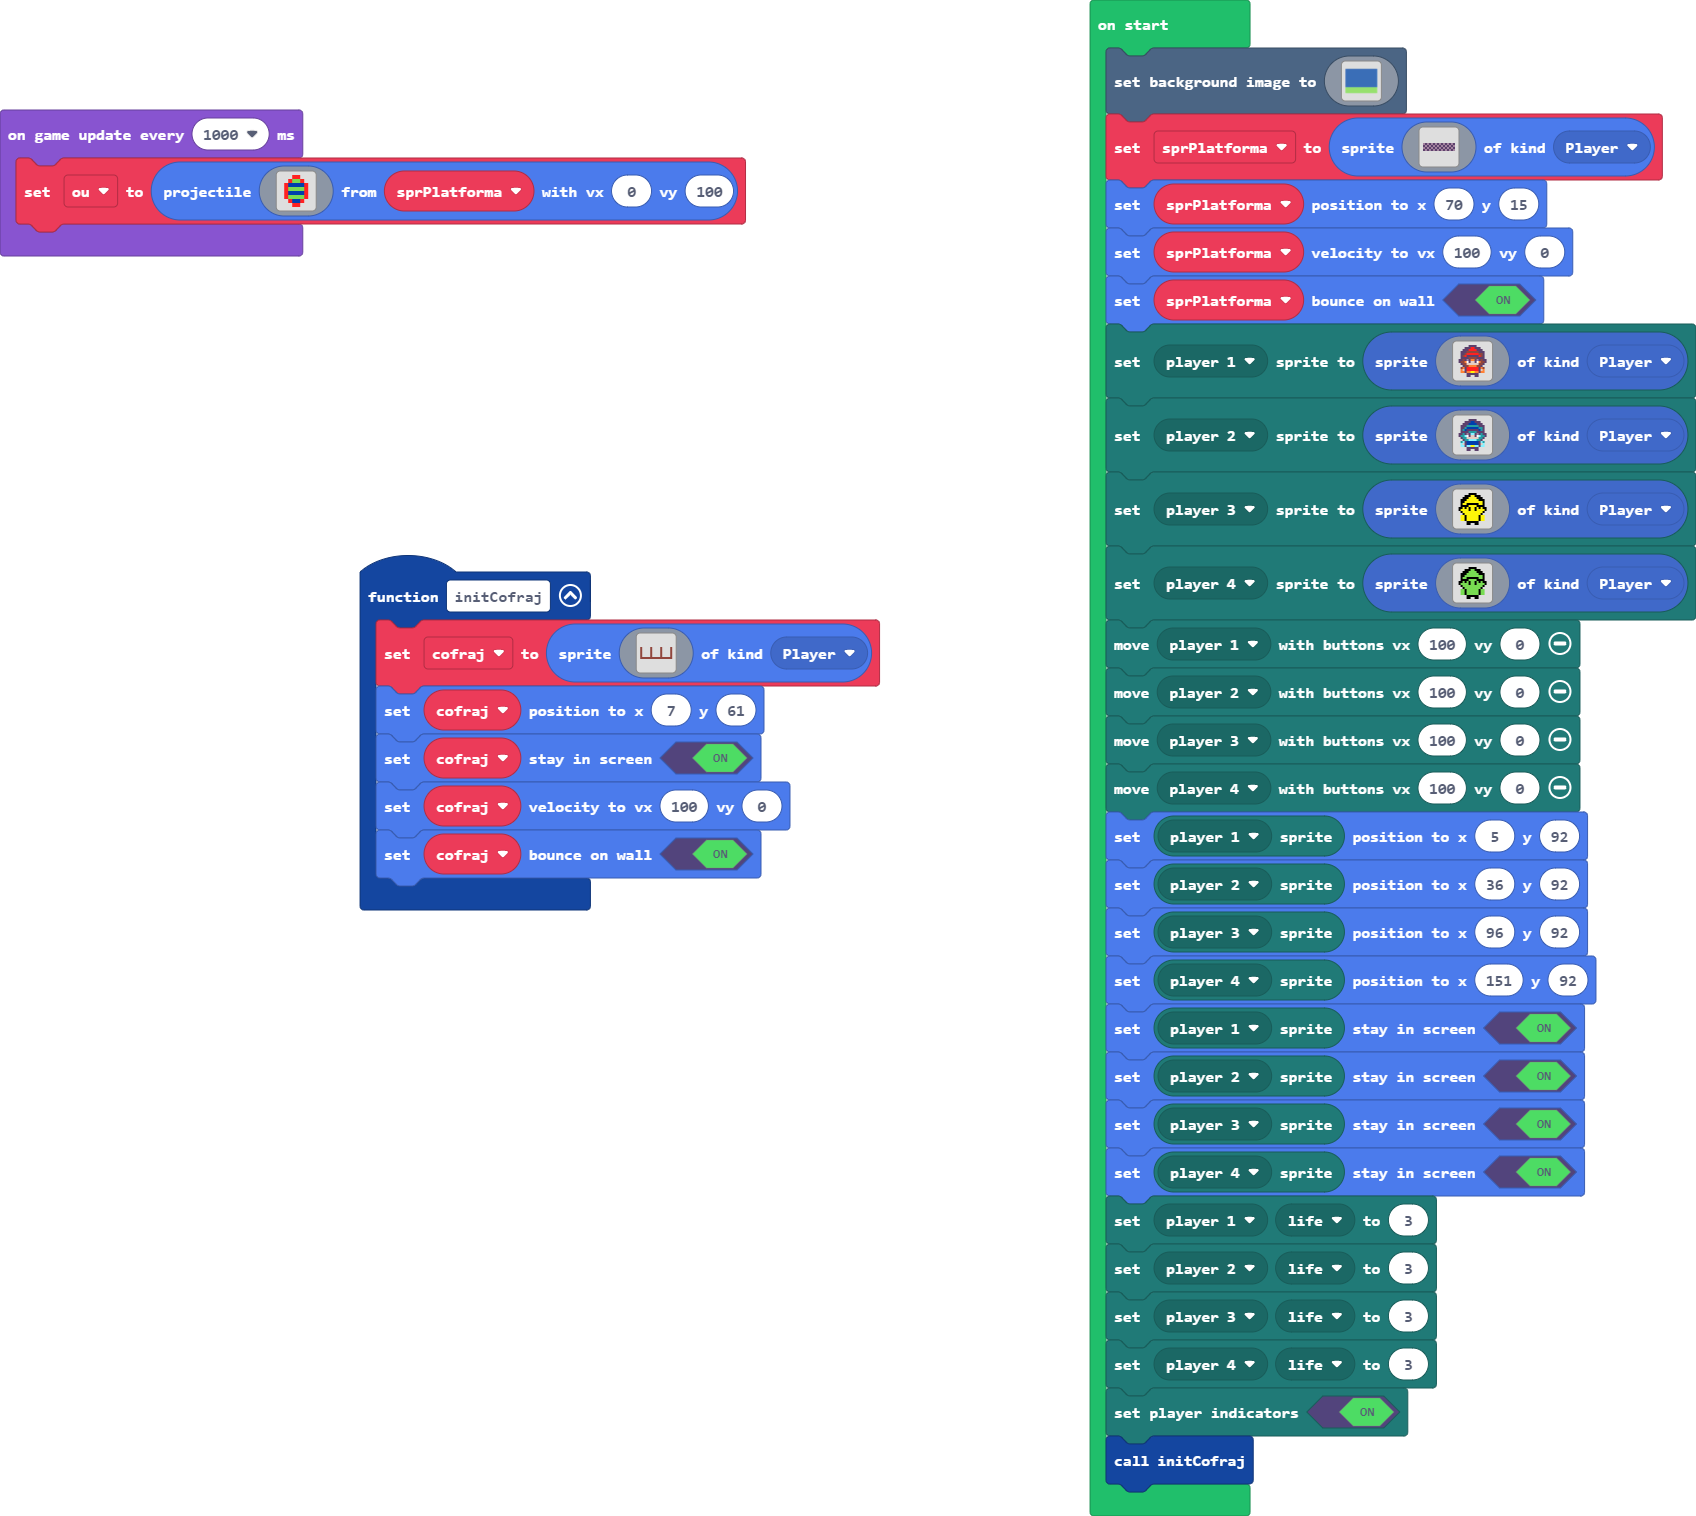
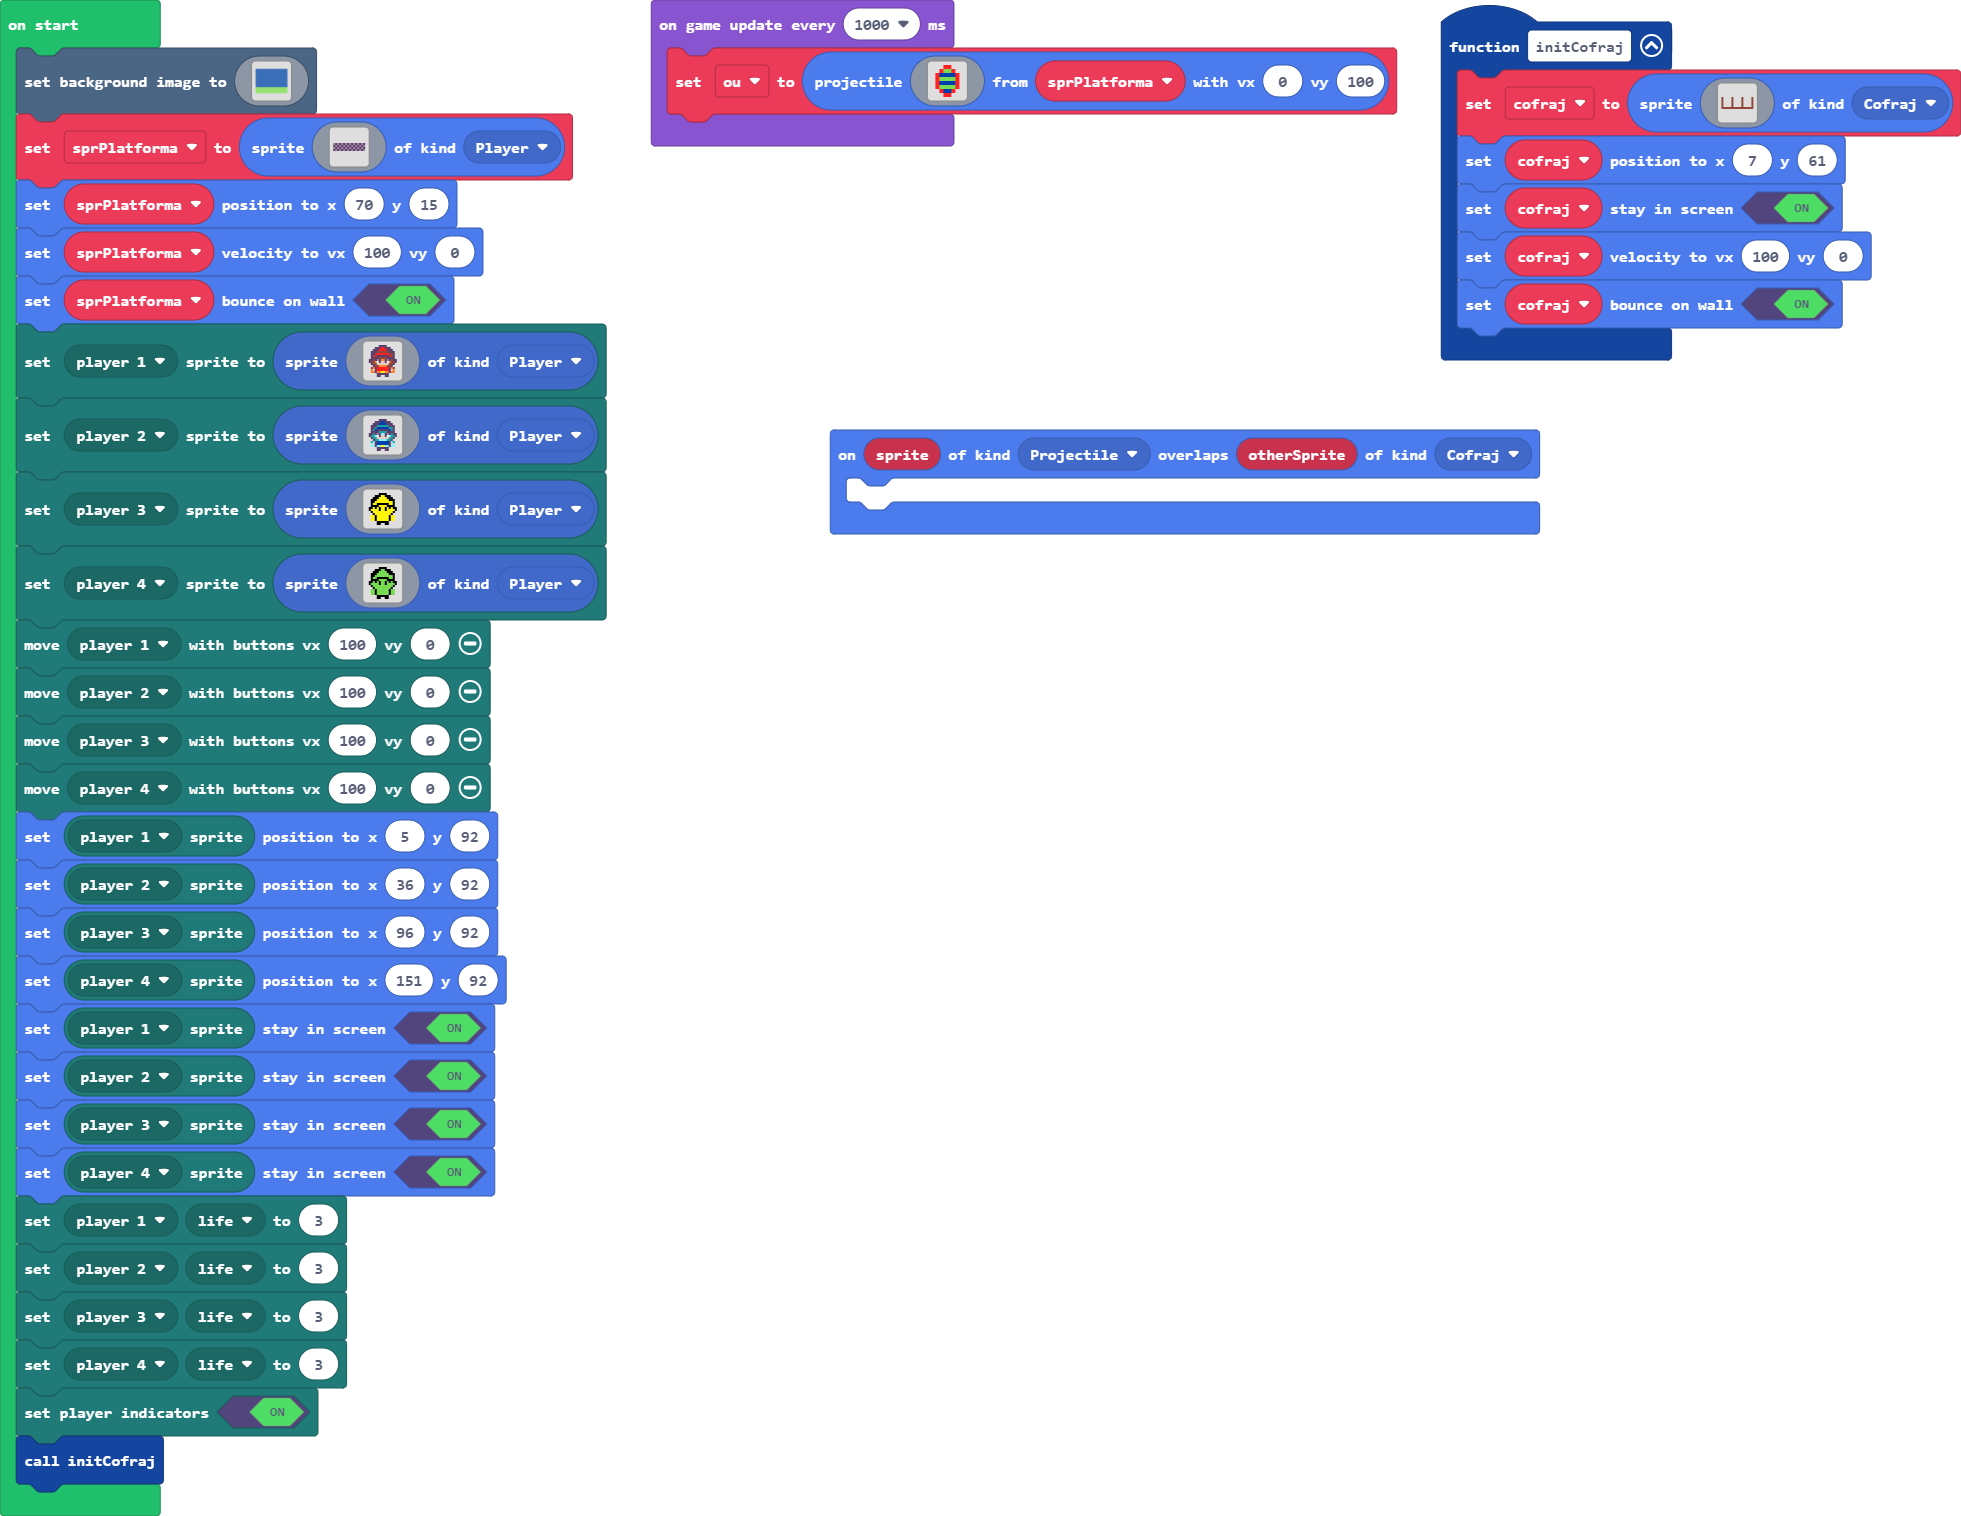
something

diff --git a/main.ts b/main.ts
@@ -1,17 +1,23 @@
+namespace SpriteKind {
+    export const Cofraj = SpriteKind.create()
+}
 function initCofraj () {
     cofraj = sprites.create(img`
         e . . . . e . . . . e . . . . e 
         e . . . . e . . . . e . . . . e 
         e . . . . e . . . . e . . . . e 
-        e . . . . e . . . . e . . . . e 
+        e . d . . e . . d . e . . d . e 
         e . . . . e . . . . e . . . . e 
         e e e e e e e e e e e e e e e e 
-        `, SpriteKind.Player)
+        `, SpriteKind.Cofraj)
     cofraj.setPosition(7, 61)
     cofraj.setStayInScreen(true)
     cofraj.setVelocity(100, 0)
     cofraj.setBounceOnWall(true)
 }
+sprites.onOverlap(SpriteKind.Projectile, SpriteKind.Cofraj, function (sprite, otherSprite) {
+	
+})
 let ou: Sprite = null
 let cofraj: Sprite = null
 scene.setBackgroundImage(img`
